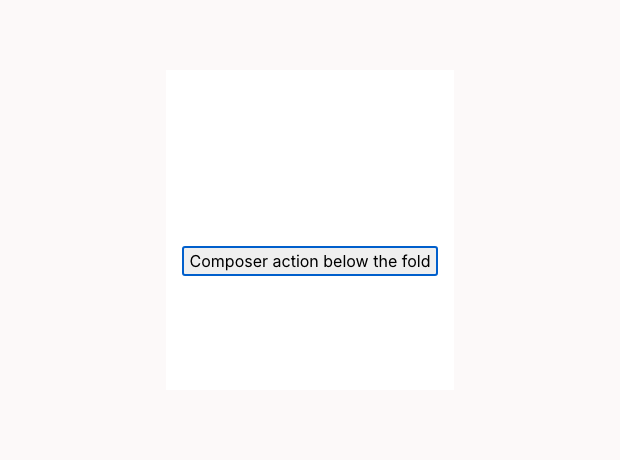
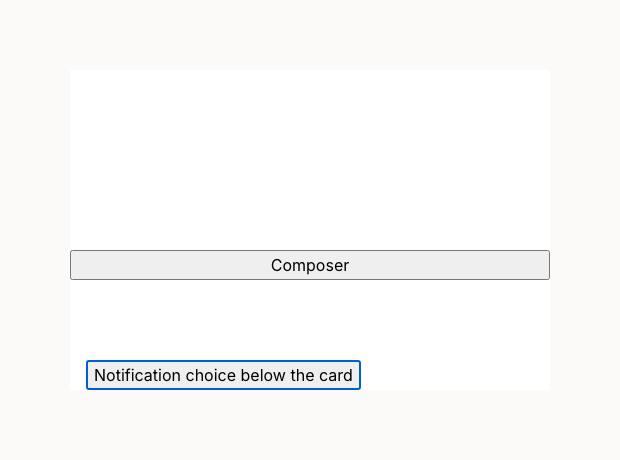
test(session): use the production session structure in the scroll-lock story
Scrollable .session__content and a docked .messageSubmit__wrapper.
The test also checks that the composer stays at the card's bottom edge.

Changed region(s): [[0.1226, 0.7609, 0.5823, 0.8522], [0.2758, 0.5174, 0.7355, 0.6087], [0.8581, 0.5783, 0.8887, 0.6087]]

diff --git a/src/components/session/SessionCardScrollLock.stories.tsx b/src/components/session/SessionCardScrollLock.stories.tsx
@@ -16,13 +16,24 @@ const Card = ({ legacyHidden = false }: { legacyHidden?: boolean }) => (
 		// Restores the old `overflow: hidden` rule, to show the defect.
 		style={{
 			height: 320,
-			maxWidth: 480,
+			width: 480,
 			...(legacyHidden ? { overflow: 'hidden' } : {})
 		}}
 	>
-		<div style={{ flex: 'none', height: 400, padding: 16 }}>Timeline</div>
-		<div style={{ flex: 'none', height: 160, padding: 16 }}>
-			<button type="button">Composer action below the fold</button>
+		<div className="session__content" style={{ overflow: 'auto' }}>
+			Timeline
+		</div>
+		{/* A control that lies beyond the bottom edge of the card. */}
+		<button
+			type="button"
+			style={{ position: 'absolute', top: 400, left: 16 }}
+		>
+			Notification choice below the card
+		</button>
+		<div className="messageSubmit__wrapper">
+			<button type="button" data-testid="composer-button">
+				Composer
+			</button>
 		</div>
 	</div>
 );
@@ -37,16 +48,28 @@ type Story = StoryObj<typeof Card>;
 
 export const FocusDoesNotScrollTheCard: Story = {
 	play: async ({ canvasElement }) => {
-		const card = within(canvasElement).getByTestId('session-card');
+		const canvas = within(canvasElement);
+		const card = canvas.getByTestId('session-card');
 		await userEvent.tab();
 		expect(
-			within(card).getByRole('button', {
-				name: /composer action below the fold/i
-			})
+			canvas.getByRole('button', { name: /notification choice/i })
 		).toHaveFocus();
 		expect(card.scrollTop).toBe(0);
 		card.scrollTop = 100;
 		expect(card.scrollTop).toBe(0);
+		// The composer stays docked at the bottom edge of the card.
+		await userEvent.tab();
+		const composer = canvas.getByTestId('composer-button');
+		expect(composer).toHaveFocus();
+		const border = parseFloat(getComputedStyle(card).borderBottomWidth);
+		const wrapper = composer.closest('.messageSubmit__wrapper')!;
+		expect(
+			Math.abs(
+				card.getBoundingClientRect().bottom -
+					wrapper.getBoundingClientRect().bottom -
+					border
+			)
+		).toBeLessThanOrEqual(1);
 	}
 };
 
